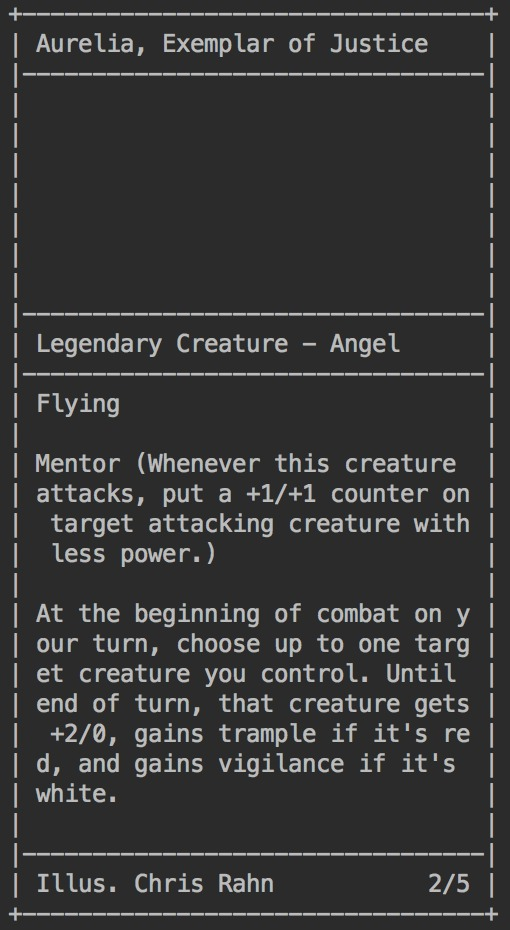
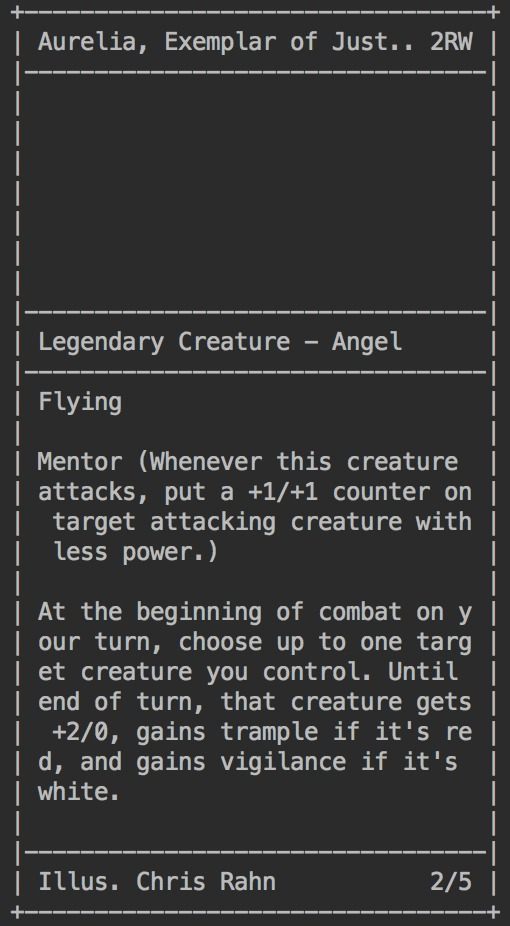
Fixed manacost & card title bug

Changed region(s): [[0.0294, 0.0, 0.9706, 0.9978], [0.3235, 0.3931, 0.3529, 0.4233]]

diff --git a/app/views/prettyCard.py b/app/views/prettyCard.py
@@ -20,7 +20,10 @@ class PrettyCard:
 
         # Start card title
         self.fill('+', '-')
-        self.fill_justify('|', [self.card.get_name(), self.card.get_manacost()])
+        if len(self.card.get_name() + self.card.get_manacost()) + 6 > self.card_width:
+            self.fill_justify('|', [self.card.get_name()[:(self.card_width - (len(self.card.get_manacost()) + 8))] + '..', self.card.get_manacost()])
+        else:
+            self.fill_justify('|', [self.card.get_name(), self.card.get_manacost()])
         self.fill('|', '-')
         # End Card title
 
@@ -48,7 +51,7 @@ class PrettyCard:
             pwr_tgh = str(self.card.get_power()) + '/' + str(self.card.get_toughness())
 
             if len(self.card.get_artist() + pwr_tgh) + 2 > self.card_width:
-                self.fill_justify('|', [self.card.get_artist()[:(self.card_width - (len(pwr_tgh) + 6))], pwr_tgh])
+                self.fill_justify('|', [self.card.get_artist()[:(self.card_width - (len(pwr_tgh) + 8))] + '..', pwr_tgh])
             else:
                 self.fill_justify('|', [self.card.get_artist(), pwr_tgh])
         else:

diff --git a/app/models/card.py b/app/models/card.py
@@ -28,8 +28,8 @@ class Card(Base):
 
     def __init__(self, c):
         Base.__init__(self)
-        self.url = c['url']
         self.name = c['name']
+        self.manacost = c['manacost']
         self.type = c['type']
         self.sub_types = c['sub_types']
         self.set = c['set']
